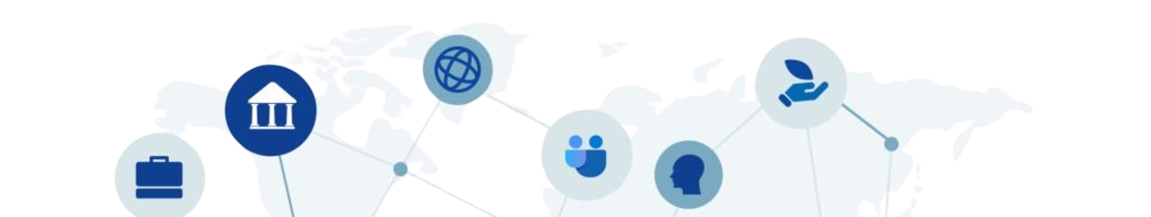
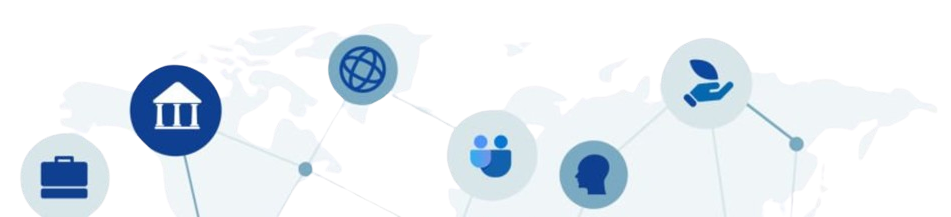
aaaaaaaaa

diff --git a/QFAvionics/templates/about.html b/QFAvionics/templates/about.html
@@ -33,7 +33,14 @@
 
     #about_backimg {
         position: absolute;
-        width: 100vw;
+        margin: 0; /* Remove default margins */
+  padding: 0; /* Remove default padding */
+  background-image: url('your-image-url.jpg'); /* Replace with your image URL */
+  background-size: cover; /* Ensures the image covers the entire background */
+  background-repeat: no-repeat; /* Prevents the image from repeating */
+  background-position: center; /* Centers the image */
+  height: 100vh; /* Sets the height of the body to fill the viewport */
+  width: 100%;
     }
 
     /* divider */
